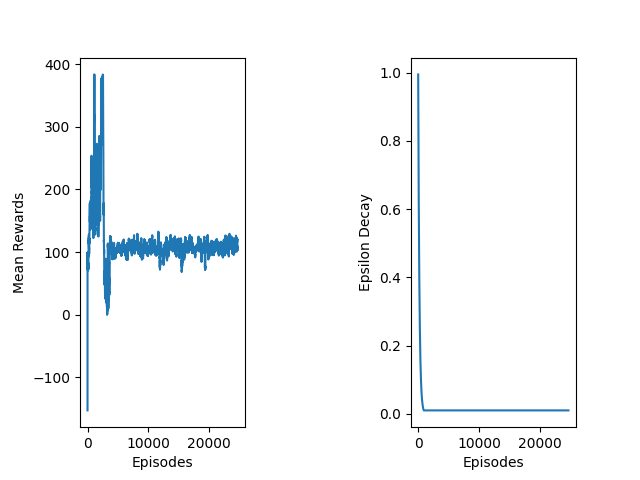
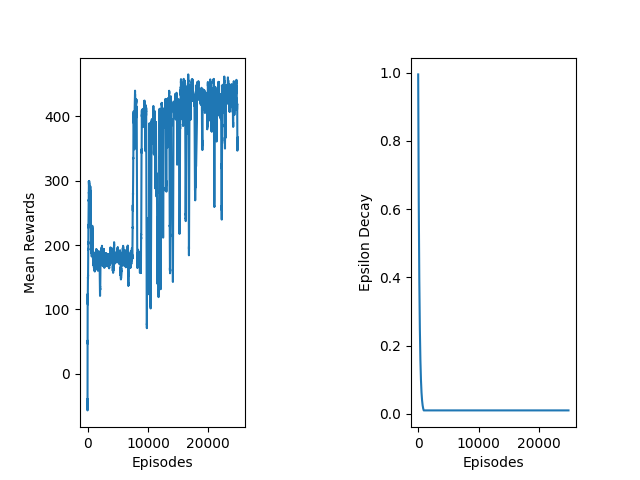
update dq_learning

diff --git a/training/dqn/dq_learning.py b/training/dqn/dq_learning.py
@@ -19,7 +19,7 @@ import os
 from training.utils import draw_wins_plot_over_episodes
 
 
-SELF_PLAY = True
+SELF_PLAY = False
 
 # For printing date and time
 DATE_FORMAT = "%m-%d %H:%M:%S"
@@ -40,7 +40,7 @@ class DQLAgent():
     def __init__(self):
         # Hyperparameters
         self.learning_rate_a    = 0.3      # learning rate (alpha)
-        self.discount_factor_g  = 0.7      # discount rate (gamma)
+        self.discount_factor_g  = 0.3      # discount rate (gamma)
         self.network_sync_rate  = 10       # number of steps the agent takes before syncing the policy and target network
         self.replay_memory_size = 100000   # size of replay memory
         self.mini_batch_size    = 32       # size of the training data set sampled from the replay memory
@@ -105,7 +105,7 @@ class DQLAgent():
             best_reward = 954.0 # best reward of pretrained model
 
         # Training.
-        for episode in tqdm(range(0, num_of_episodes), desc='Game progress'):
+        for episode in tqdm(range(0, num_of_episodes), desc='Training progress'):
 
             started_state = [2, 0, 0, 0, 0, 0, 0, 0]
 
@@ -303,6 +303,10 @@ class DQLAgent():
 
 
 if __name__ == '__main__':
+    # Repeatability of results.
+    if not SELF_PLAY:
+        np.random.seed(42)
+
     dql_agent = DQLAgent()
     percentage_win_agent, percentage_win_enemy = dql_agent.run(num_of_episodes=25000)
     print(f'Percentage win agent: {percentage_win_agent}')

diff --git a/test/dq_learning.py b/test/dq_learning.py
@@ -130,7 +130,7 @@ if __name__ == '__main__':
     np.random.seed(42)
     num_wins_agent = 0
 
-    mode = 'D_SELF-VS-RANDOM'
+    mode = 'D-VS-RANDOM'
 
     for i in tqdm(range(0, 5000), desc='Game progress'):
         win_agent = execute(mode)
